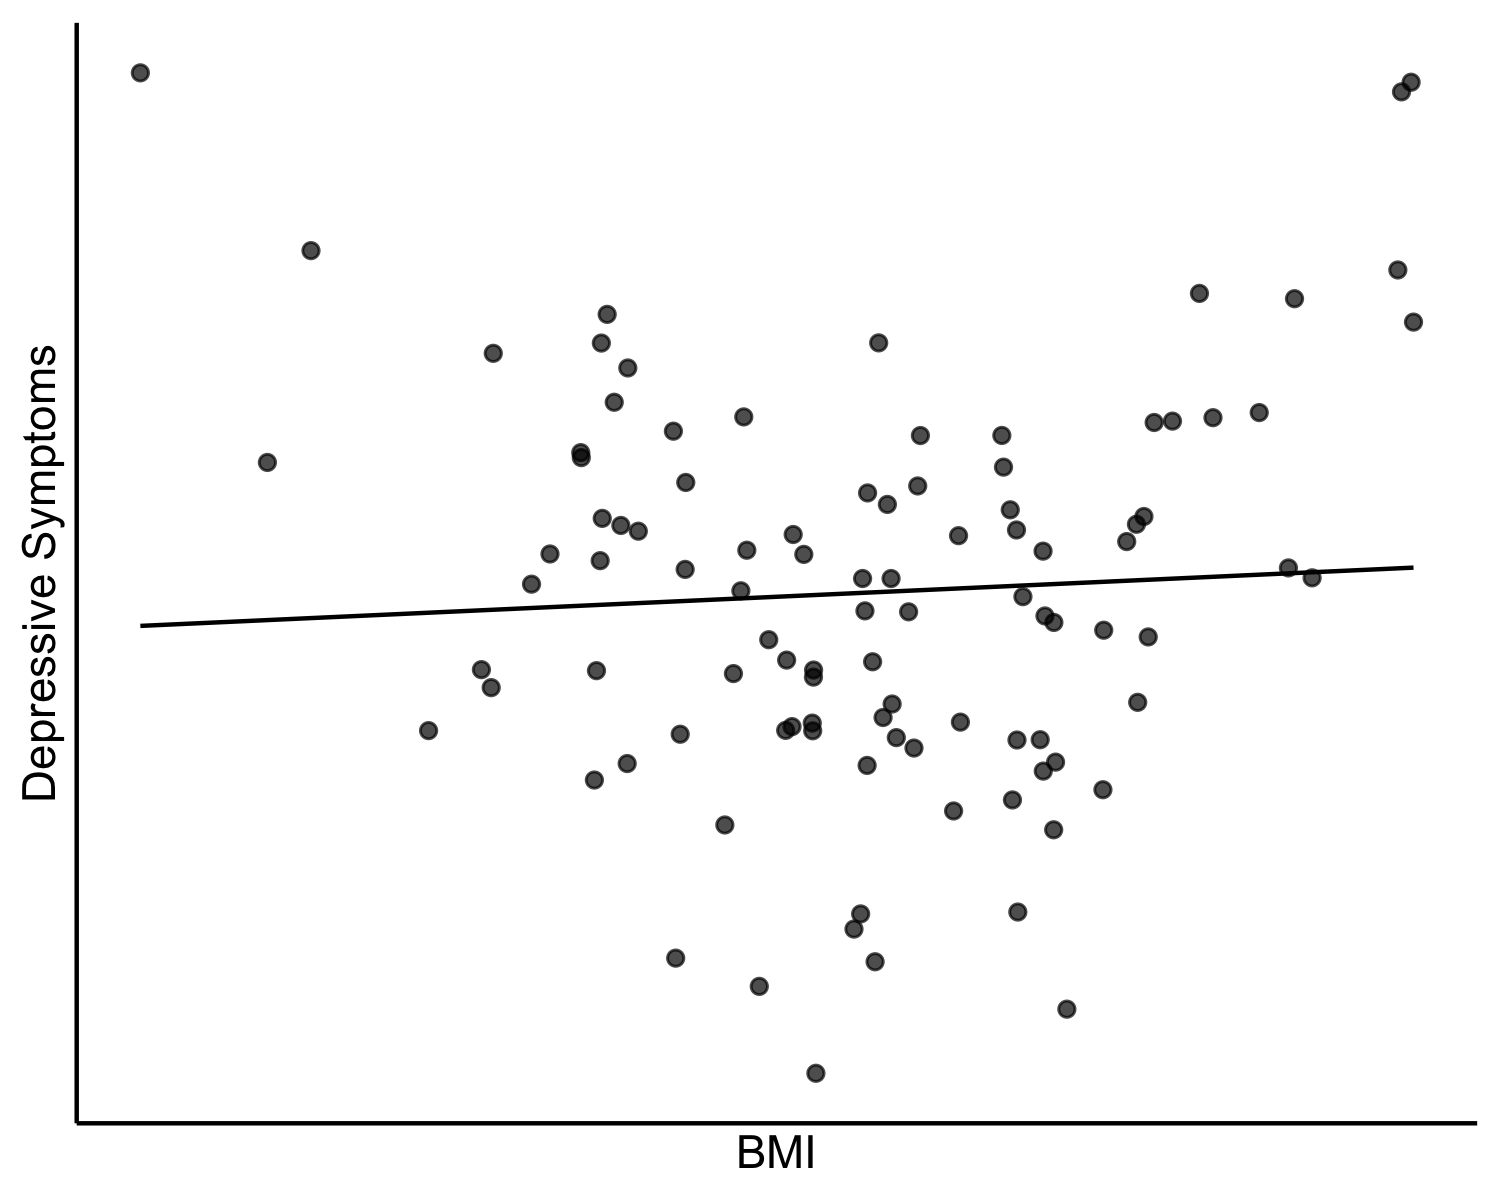
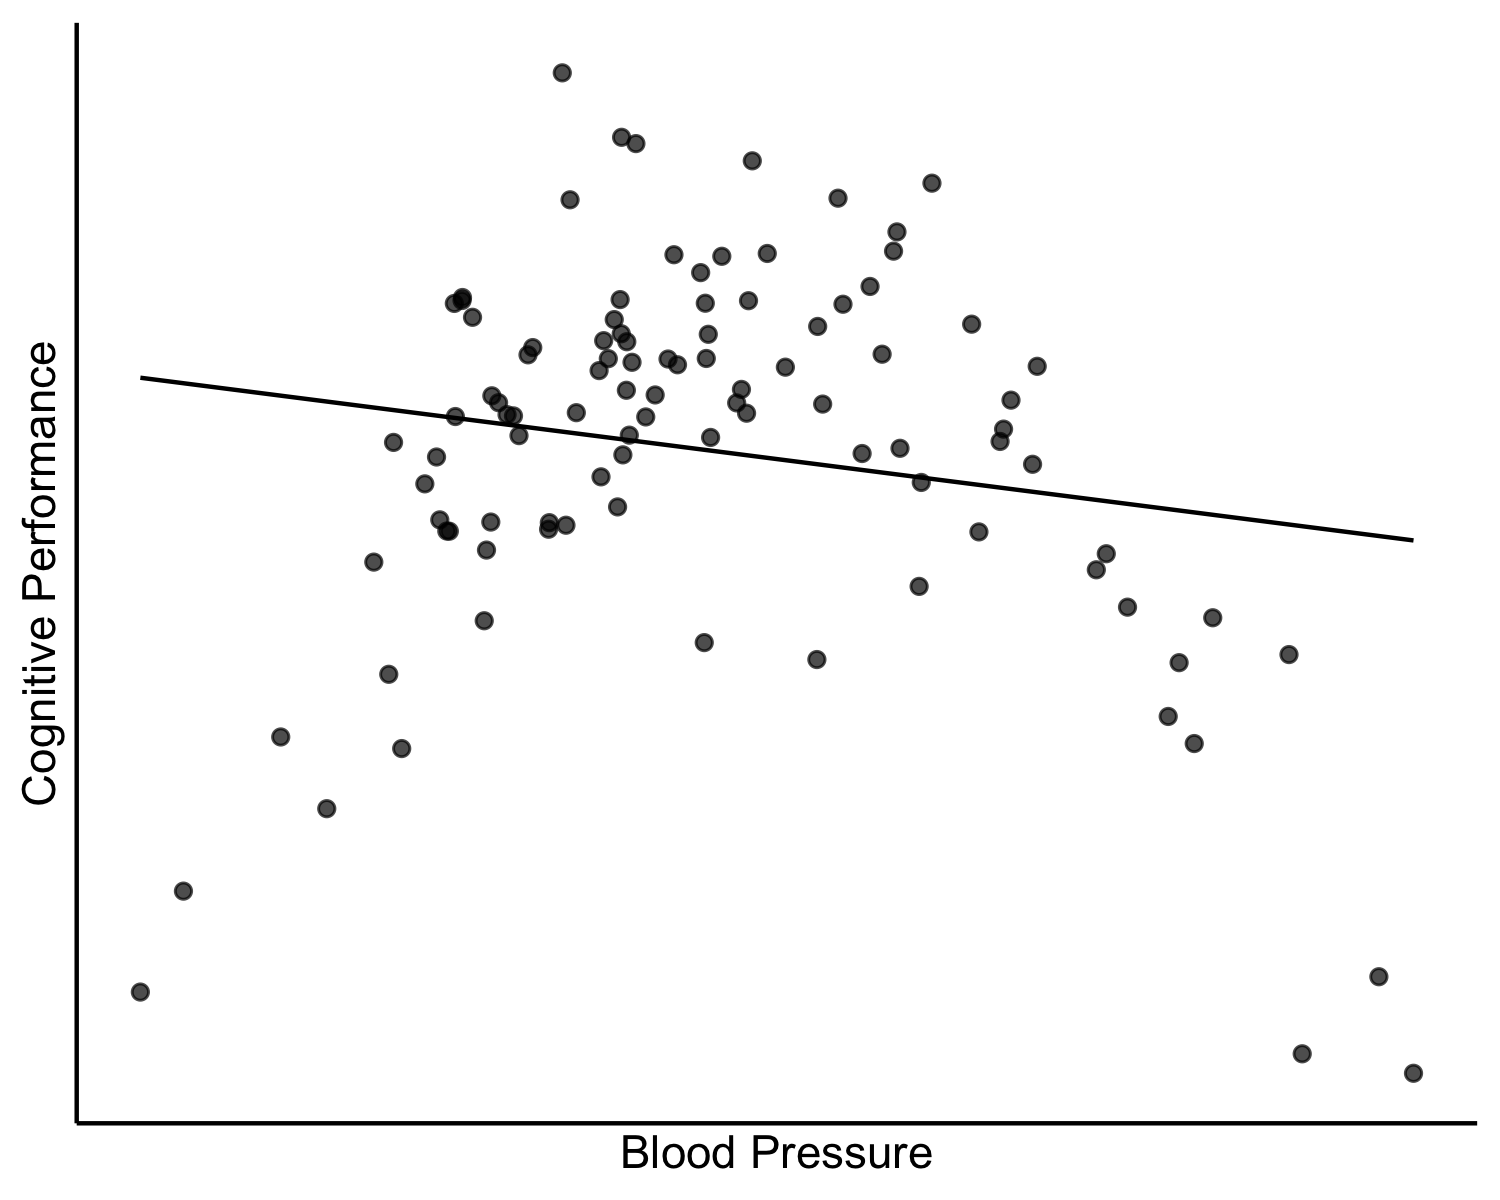
Replace BMI example with blood pressure and cognitive performance

diff --git a/demystifying_machine_learning/demystifying_machine_learning.md b/demystifying_machine_learning/demystifying_machine_learning.md
@@ -143,8 +143,8 @@ You want to get variance as low as possible; if you reach a variance of 0, that 
 **Bias** refers to how far off your predictions are from the underlying truth.
 You also want bias to be as low as possible; if you have a bias of 0, that means your model perfectly captures the real-life phenomenon that creates the data.
 
-For example, imagine you had collected measurements of body mass index (BMI) and depressive symptoms from a sample of adolescents (see [Bohon & Welch, 2021](https://www.ncbi.nlm.nih.gov/pmc/articles/PMC8225589/)).
-Let's pretend that the true relationship between these variables in real life is perfectly quadratic (U-shaped), where medium BMI is associated with low depressive symptoms and BMI that is either low or high is associated with higher depressive symptoms --- it's certainly more complicated than that in reality, but let's assume it's that simple for now.
+For example, imagine you had collected measurements of blood pressure and cognitive performance from a sample of patients (these are made up data).
+Let's pretend that the true relationship between these variables in real life is perfectly quadratic (U-shaped), where medium blood pressure is associated with the best cognitive performance and blood pressure that is either too low or too high is associated with lower cognitive performance.
 
 One way to model the relationship between these variables would be a plain linear relationship, as depicted in the scatterplot below.
 There are only two parameters to estimate for a linear model like this: intercept and slope.
@@ -157,18 +157,11 @@ Check out [this tutorial on linear regression](https://education.arcus.chop.edu/
 
 </div>
 
-If you ran this study over and over, collecting data from new participants each time and always fitting a linear model, the exact parameter estimates for the model would change a little study to study (one time the slope might be .15, another time .21, then .17, etc.). That's the **variance**.
-But there's also the fact that your model will always be systematically off because a linear model isn't a good approximation of the true relationship in the data; you'll always underestimate depressive symptoms at the very low and very high BMIs.
+If you ran this study over and over, collecting data from new participants each time and always fitting a linear model, the exact parameter estimates for the model would change a little study to study (one time the slope might be -0.15, another time -0.21, then -0.17, etc.). That's the **variance**.
+But there's also the fact that your model will always be systematically off because a linear model isn't a good approximation of the true relationship in the data; you'll always overestimate cognitive performance at very low and very high blood pressures.
 That's the **bias**.
 
-![Scatterplot of data with a pronounced U-shaped curve. The y-axis is labeled "Depressive Symptoms" and the x-axis is labeled "BMI"; no scales are provided for either axis. There is a linear trend line that cuts straight through the data without capturing the curve, underestimating depressive symptoms at the low and high extremes of BMI.](media/underfit.png)
-
-<div class = "important">
-<b style="color: rgb(var(--color-highlight));">Important note</b><br>
-
-This example is inspired by a real study ([Bohon & Welch, 2021](https://www.ncbi.nlm.nih.gov/pmc/articles/PMC8225589/)), but the plots here are generated from **fake data** and may not accurately depict the relationship the authors found between BMI and depression.
-
-</div>
+![Scatterplot of data with a pronounced upside down U-shaped curve. The y-axis is labeled "Cognitive Performance" and the x-axis is labeled "Blood Pressure"; no scales are provided for either axis. There is a linear trend line that cuts straight through the data without capturing the curve, overestimating cognitive performance at the low and high extremes of blood pressure.](media/underfit.png)
 
 A better model for these data would be more complex; it would allow a curve in the trend line, which would require estimating more parameters.
 In general, as you increase the complexity of your model, you can lower the **bias**; in other words, you can get closer to the truth.
@@ -177,7 +170,7 @@ However, there's a point of diminishing returns.
 If you make your model too complex and flexible, it will start to model random noise in your data, and this increases the **variance**.
 In general, as models get more complex, variance increases.
 
-Here is the BMI and depression data again, this time with a model that is much too complex --- if you estimated that model on a different sample, you could get wildly different results.
+Here are the blood pressure and cognitive performance data again, this time with a model that is much too complex --- if you estimated that model on a different sample, you could get wildly different results.
 
 ![The same scatterplot, this time with a very squiggly trend line that goes up and down with the random variability in the data.](media/overfit.png)
 
@@ -206,7 +199,7 @@ set.seed(8675309)
 # x is randomly sampled from a normal distribution
 x <- rnorm(n=n, mean = 0, sd = 1)
 # y is x squared, plus random noise
-y <- x^2 + rnorm(n=n, mean = 0, sd = 2)
+y <- -1*x^2 + rnorm(n=n, mean = 0, sd = 2)
 
 # trend lines
 linear <- predict(lm(y ~ x))
@@ -225,7 +218,7 @@ library(ggplot2)
 
 base_plot <- ggplot(df, aes(x=x, y=y)) +
   geom_point(alpha = .7) +
-  labs(x="BMI", y="Depressive Symptoms") +
+  labs(x="Blood Pressure", y="Cognitive Performance") +
   scale_x_continuous(breaks = NULL) +
   scale_y_continuous(breaks = NULL) +
   theme_classic()
